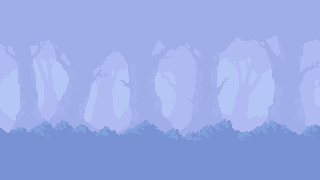
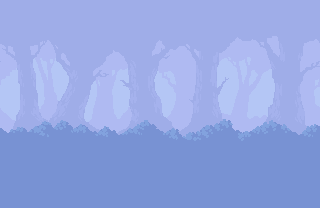
Addet parallax background

diff --git a/scripts/objects/StateMashine-class.js b/scripts/objects/StateMashine-class.js
@@ -33,6 +33,7 @@ export class State{
 ////////// IDLE STATUS ////////////
 //////////////////////////////////////
 export class Idle{
+
     start(entity){
         entity.animationStatus = "idle"
     }
@@ -43,7 +44,10 @@ export class Idle{
     }
 
     checkConditions(entity){
-        
+        if(entity.gethit){
+            this.leaveState(entity);  
+            entity.stateMachine.changeState(new GetHit());    
+        }
     }
     
     leaveState(entity){
@@ -56,6 +60,7 @@ export class Idle{
 ////////// WALKING STATUS ////////////
 //////////////////////////////////////
 export class Walking{
+
     start(entity){
         entity.acc = entity.backupOption.walkspeed
         entity.animationStatus = "walking"
@@ -78,6 +83,11 @@ export class Walking{
             entity.stateMachine.changeState(new Chasing());
             this.leaveState(entity);
         }
+
+        if(entity.gethit){
+            this.leaveState(entity);  
+            entity.stateMachine.changeState(new GetHit());    
+        }
       
     }
     
@@ -91,9 +101,9 @@ export class Walking{
 ////////// CHASING STATUS ////////////
 //////////////////////////////////////
 export class Chasing{
+
     start(entity){
-        entity.jump(-0.5);
-        entity.walkspeed *= 1.75;
+        entity.walkspeed *= 2;
         entity.acc = entity.walkspeed;
         entity.animationStatus = "chasing";
     }
@@ -124,6 +134,11 @@ export class Chasing{
             this.leaveState(entity);
         }
 
+        if(entity.gethit){
+            this.leaveState(entity);  
+            entity.stateMachine.changeState(new GetHit());    
+        }
+
     }
     
     leaveState(entity){
@@ -137,6 +152,7 @@ export class Chasing{
 ////////// ATTACK STATUS /////////////
 //////////////////////////////////////
 export class Attack{
+
     start(entity){
         entity.walkspeed = 0;
         entity.acc = 0;
@@ -181,10 +197,12 @@ export class Attack{
     }
 }
 
+
 //////////////////////////////////////
 ///////// GET HIT STATUS /////////////
 //////////////////////////////////////
 export class GetHit{
+
     start(entity){
         entity.animationStatus = "getHit";
         entity.jump(-1);
@@ -220,6 +238,7 @@ export class GetHit{
 /////////// DEATH STATUS /////////////
 //////////////////////////////////////
 export class Death{
+
     start(entity){
         entity.walkspeed = 0;
         entity.acc = 0;
@@ -227,6 +246,7 @@ export class Death{
         entity.animationSpeed = 1
 
     }
+
     behave(entity){
         if(!entity.onGround){
             entity.animationStatus = "death"
@@ -242,9 +262,12 @@ export class Death{
             }, 1500);
         }
     }
+
     checkConditions(entity){ 
 
     }
+
     leaveState(entity){
+
     }
 }

diff --git a/scripts/background-class.js b/scripts/background-class.js
@@ -1,0 +1,71 @@
+import { canvas, ctx } from "./canvas.js";
+
+
+let backgroundImageLayerOne = new Image();
+backgroundImageLayerOne.src = "./assets/background/background_layer_1.png";
+
+let backgroundImageLayerTwo = new Image();
+backgroundImageLayerTwo.src = "./assets/background/background_layer_2.png";
+
+let backgroundImageLayerThree = new Image();
+backgroundImageLayerThree.src = "./assets/background/background_layer_3.png";
+
+let imageObject = [
+    { image: backgroundImageLayerOne, offset: [0.32, 0.32], offsetValues:[6, 0], heightOffset: -120 },
+    { image: backgroundImageLayerTwo, offset: [0.64, 0.64], offsetValues:[12, 3], heightOffset: -120 },
+    { image: backgroundImageLayerThree, offset: [1.28, 1.28], offsetValues:[24, 7], heightOffset: 60 }
+]
+
+export class Background{
+    constructor(option, type, speed){
+        this.color = option.color || "skyblue";
+        this.animationSpeed = option.speed || 1;
+        this.image = imageObject
+        this.type = type || "backgroundElements"
+        this.width =  imageObject[0].image.width;
+        this.height = imageObject[0].image.height;
+        this.multiplyerX = 8;
+        this.playerVel = [0,0];
+        this.playerPos = [0,0];
+        this.latestSpeed = 0;
+        this.playerSpeed = 0;
+        this.ValueIsToSlow = false;
+    }
+
+    updateBackground(playerArray){
+        this.checkPlayerSpeed(playerArray);
+        this.calcOffset();
+        this.draw();
+    }
+
+    checkPlayerSpeed(PlayerArray){
+        this.playerVel = PlayerArray[0].vel;
+        this.playerPos = PlayerArray[0].pos;
+        this.playerSpeed = PlayerArray[0].walkspeed;
+    }
+
+    calcOffset(){
+        this.multiplyerX = this.playerVel[0];
+        this.image.forEach(backgroundImg => {
+
+            if(backgroundImg.offset[0] > 10) {
+                backgroundImg.offset[0] = 0;
+
+            } else if(this.playerVel[0] == 0){
+                backgroundImg.offset[0] = 0;
+            }
+            backgroundImg.offset[0] = this.multiplyerX * backgroundImg.offsetValues[0];
+            backgroundImg.offset[1] = (this.playerPos[1] / 25) * backgroundImg.offsetValues[1];
+        });
+    }
+
+    draw(){
+       
+        ctx.fillStyle = this.color;
+        ctx.fillRect(0, 0, canvas.width, canvas.height);
+        this.image.forEach(backgroundImg => {
+            ctx.drawImage(backgroundImg.image, backgroundImg.offset[0], 0, canvas.width, canvas.height, -50, 80 + backgroundImg.heightOffset -backgroundImg.offset[1], canvas.width * 3, canvas.height * 3);
+        });
+       
+    }
+}

diff --git a/scripts/level.js b/scripts/level.js
@@ -1,8 +1,9 @@
-import {canvas, clearCanvas} from "./canvas.js";
-import {Timer} from "./timer.js";
+import { canvas, clearCanvas } from "./canvas.js";
+import { Timer } from "./timer.js";
+import { Background } from "./background-class.js";
 
 
-export const camera = {
+export let camera = {
     pos: [0,0],
 };
 
@@ -19,6 +20,7 @@ export class Level {
         this.cameraPos = option.cameraPos || [0,this.size[1] - canvas.height];
         this.originalCameraPos = [... this.cameraPos];
         this.objects = [];
+        this.receivingObjects = option.objects
         this.player = null;
         this.game = null;
         this.index = 0;
@@ -26,19 +28,11 @@ export class Level {
         this.status = status.ready;
         this.levelIsWon = false;
         this.timer.update = (thisDeltaTime) => this.update(thisDeltaTime);
-        this.obectsOfType = {
-            Rectangle: [],
-            Box: [],
-            Player: [],
-            Goal: [],
-            Entity: [],
-            Enemy: [],
-        }
+        this.obectsOfType = null;
         this.deleteObjects = []
         this.screenshakeValue = 0;
         this.screenshake = false;
         this.screenshakeMaxRange = 24;
-        this.addObjects(option.objects || []);
         this.screenAnimationTimer = 0;
         this.screenEffektTimer = 0;
         this.keyFuncRef = (e) => this.keyFunction(e);
@@ -77,6 +71,7 @@ export class Level {
     }
 
     update(deltaTime){
+        
         clearCanvas();
         this.updateCamera();
         this.checkWin();
@@ -86,6 +81,10 @@ export class Level {
                 if(Object.keys(this.objects[i].animationFrames).length > 0){
                     this.objects[i].updateFrameAnimation(deltaTime);
                 }
+            }
+
+            if(this.objects[i].type == "backgroundElements"){
+                this.objects[i].updateBackground(this.obectsOfType.Player);
             }
 
             try{ this.objects[i].update(deltaTime);
@@ -138,6 +137,16 @@ export class Level {
     }
 
     start(){
+        this.obectsOfType = {
+            Rectangle: [],
+            Box: [],
+            Player: [],
+            Goal: [],
+            Entity: [],
+            Enemy: [],
+            backgroundElements:[],
+        }
+        this.addObjects(this.receivingObjects || []);
         this.player = this.obectsOfType.Player[0];
         this.status = status.running;
         this.timer.pause = false;

diff --git a/scripts/objects/main-character-class.js b/scripts/objects/main-character-class.js
@@ -1,6 +1,6 @@
 import { Player} from "./player-class.js";
-import {canvas, ctx} from "../canvas.js";
 import { Hitbox } from "./hitbox-class.js";
+
 
 export class Character extends Player {
     constructor(options){
@@ -21,9 +21,10 @@ export class Character extends Player {
         }
         this.frameWidth = 64;
         this.frameHight = 44;
-        this.animationImage.src = "./assets/character-animation-atlas.png";
         this.frameHightOffset = 48;
         this.frameWidthOffset = 0;
+        this.animationImage = new Image();
+        this.animationImage.src = "./assets/character-animation-atlas.png";
     }
 
     createHitbox(){
@@ -34,7 +35,7 @@ export class Character extends Player {
                     level: level,
                     pos: newPos,
                     size: [90, 55],
-                    color: "",
+                    color: "grey",
                     lifespan : 600,
                     demage : 10,
                     forceToLeft: this.facingLeft
@@ -42,6 +43,7 @@ export class Character extends Player {
                 if (this.onGround){
                     this.vel[0] = 0;
                 }
+                debugger;
                 this.level.objects.push(
                     new Hitbox (newObject)
                 );

diff --git a/scripts/objects/skelett-class.js b/scripts/objects/skelett-class.js
@@ -1,7 +1,12 @@
 import { Enemy } from "./enemy-class.js";
+
+let animationImage = new Image();
+    animationImage.src = "./assets/skelet-animation-atlas.png";
+
 export class Skelett extends Enemy{
     constructor(options, type){
         super({
+            spriteSheet: animationImage,
             pos: options.pos,
             size: options.size,
             color: options.color || "grey",
@@ -36,6 +41,7 @@ export class Skelett extends Enemy{
         this.status = "idle"
         this.frameWidth = 150;
         this.frameHight = 65;
+        this.animationImage = new Image();
         this.animationImage.src = "./assets/skelet-animation-atlas.png";
         this.frameHightOffset = 78;
         this.frameWidthOffset = 90;

diff --git a/scripts/levels/level_one.js b/scripts/levels/level_one.js
@@ -6,10 +6,17 @@ import { Coin} from "../objects/coin-class.js";
 import { Character} from "../objects/main-character-class.js";
 import { Goal } from "../objects/goal-class.js";
 import { Skelett } from "../objects/skelett-class.js";
+import { Background } from "../background-class.js";
 
 export const levelOne = new Level({
     size: [2900,1300],
-    objects: [new Character({
+    objects: [
+        
+        new Background({
+
+        }),
+        
+        new Character({
         pos: [500,700],
         size: [36,67],
         color:'edff2b',

diff --git a/scripts/main.js b/scripts/main.js
@@ -3,5 +3,8 @@ import { levelTwo } from "./levels/level_two.js";
 import { levelThree } from "./levels/level_three.js";
 import { Game} from "./game-class.js";
 
-let myGame = new Game([levelOne, levelTwo, levelThree ]);
-myGame.startLevel();
+
+
+let myGame = new Game([levelOne, levelTwo, levelThree]);
+        myGame.startLevel();
+

diff --git a/scripts/objects/rectangle-class.js b/scripts/objects/rectangle-class.js
@@ -8,7 +8,6 @@ export class Rectangle {
     this.color = option.color; 
     this.type = type || 'Rectangle';
     this.originalPos = this.pos;
-
     this.animationImage = new Image();
     this.animationImage.src =  "";
     this.crouch = false;

diff --git a/scripts/objects/player-class.js b/scripts/objects/player-class.js
@@ -68,10 +68,10 @@ export class Player extends Box {
 
     }
 
-
     reducemoving(){
             this.acc = 0;
     }
+
 
     moving(pressedKey, event){
         if (event.key == "f") {

diff --git a/scripts/objects/hitbox-class.js b/scripts/objects/hitbox-class.js
@@ -17,6 +17,6 @@ export class Hitbox extends Entity{
         //
     }
 
-    //draw(){}
+    draw(){}
     
 }
